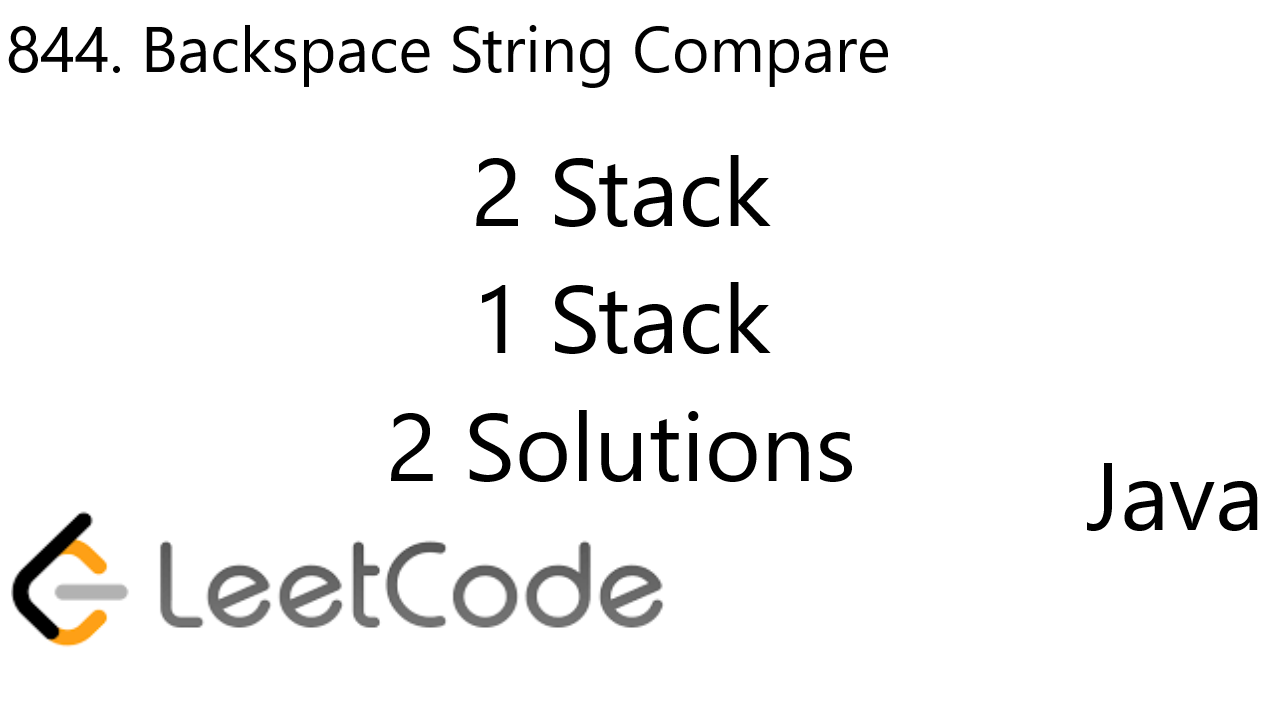
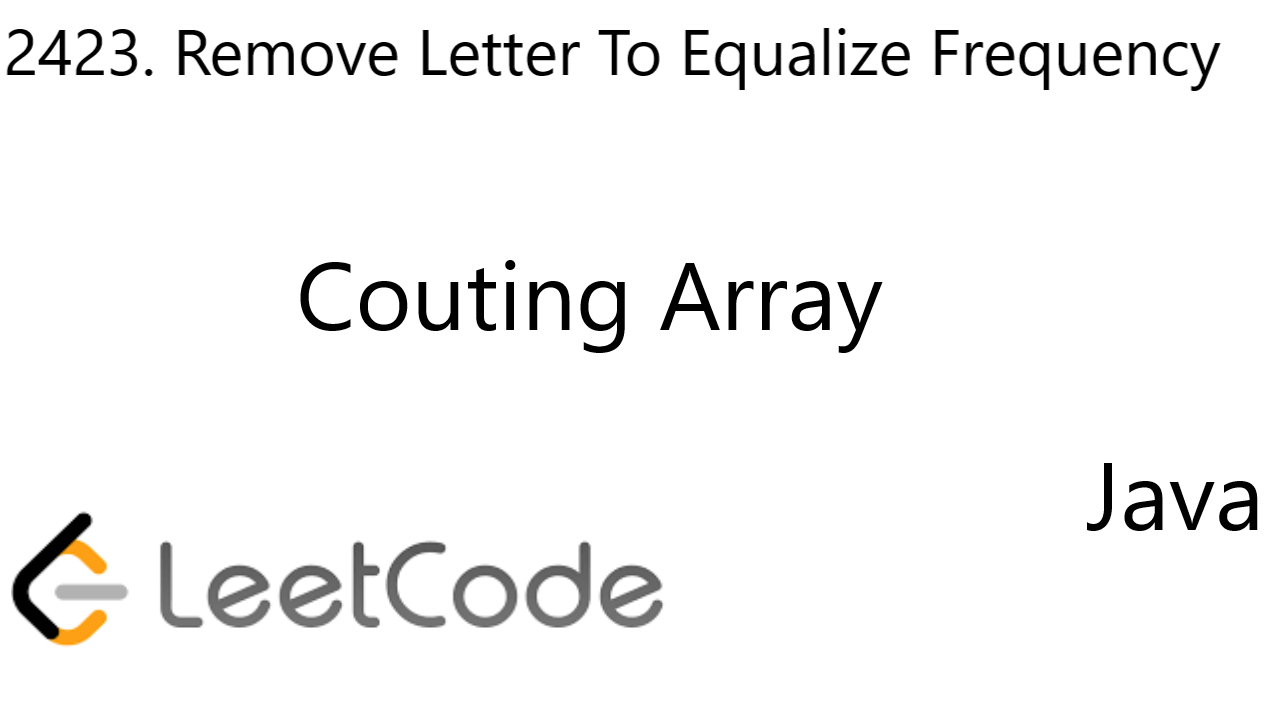
most likely sql

diff --git a/LeetCode/02423. Remove Letter To Equalize Frequency/README.MD b/LeetCode/02423. Remove Letter To Equalize Frequency/README.MD
@@ -1,0 +1,37 @@
+# Counting Array
+* Time Complexity: O(W)
+* Space Complexity: O(26)
+	* W as length of word
+```
+class Solution {
+    public boolean equalFrequency(String word) {
+        int[] cnt = new int[26];
+        for(char c: word.toCharArray()){
+            cnt[c-'a']++;
+        }
+        for(int i = 0; i < 26; i++){
+            cnt[i]--;
+            if(equalFreq(cnt)){
+                return true;
+            }
+            cnt[i]++;
+        }
+        return false;
+    }
+    
+    public boolean equalFreq(int[] arr){
+        int cnt = 0;
+        for(int a: arr){
+            if(a == 0 || cnt == a){
+                continue;
+            }else if(cnt == 0){
+                cnt = a;
+            }else{
+                return false;
+            }
+        }
+        return true;
+    }
+}
+
+```

diff --git a/LeetCode/02437. Number of Valid Clock Times/README.MD b/LeetCode/02437. Number of Valid Clock Times/README.MD
@@ -1,0 +1,36 @@
+# Math
+* Time Complexity: O(N)
+* Space Complexity: O(N)
+	* N as length of time
+```
+class Solution {
+    public int countTime(String time) {
+        int res = 1;
+        char[] t = time.toCharArray();
+        if(t[4] == '?'){
+            res *= 10;
+        }
+        if(t[3] == '?'){
+            res *= 6;
+        }
+        if(t[0] == '?' && t[1] == '?'){
+            res *= 24;
+        }else{
+            if(t[1] == '?'){
+                if(t[0] == '2'){
+                    res *= 4;
+                }else{
+                    res *= 10;
+                }
+            }else if(t[0] == '?'){
+                if(t[1] >= '4'){
+                    res *= 2;
+                }else{
+                    res *= 3;
+                }
+            }
+        }
+        return res;
+    }
+}
+```

diff --git a/LeetCode/02432. The Employee That Worked on the Longest Task/README.MD b/LeetCode/02432. The Employee That Worked on the Longest Task/README.MD
@@ -1,0 +1,20 @@
+# Math
+* Time Complexity: O(N)
+* Space Complexity: O(1)
+	* N as length of logs
+```
+class Solution {
+    public int hardestWorker(int n, int[][] logs) {
+        int id = logs[0][0],
+            res = logs[0][1];
+        for(int i = 1; i < logs.length; i++){
+            int curlen = logs[i][1] -  logs[i-1][1]; 
+            if(curlen > res || curlen == res && id > logs[i][0]){
+                res = curlen;
+                id = logs[i][0];
+            }
+        }
+        return id;
+    }
+}
+```

diff --git a/LeetCode/02441. Largest Positive Integer That Exists With Its Negative/README.MD b/LeetCode/02441. Largest Positive Integer That Exists With Its Negative/README.MD
@@ -1,0 +1,21 @@
+# HashSet
+* Time Complexity: O(N)
+* Space Complexity: O(N)
+	* N as length of nums
+```
+class Solution {
+    public int findMaxK(int[] nums) {
+        Set<Integer> set = new HashSet();
+        for(int num: nums){
+            set.add(num);
+        }
+        int res = -1;
+        for(int num: nums){
+            if(num > 0 && set.contains(-num)){
+                res = Math.max(num, res);
+            }
+        }
+        return res;
+    }
+}
+```

diff --git a/LeetCode/01484. Group Sold Products By The Date/README.MD b/LeetCode/01484. Group Sold Products By The Date/README.MD
@@ -1,4 +1,4 @@
-# MSSQL
+# MsSQL
 ```
 select a.sell_date,
         count(a.product) as num_sold,
@@ -7,4 +7,14 @@ from (select distinct sell_date,
             product from Activities) as a
 group by a.sell_date
 order by a.sell_date asc
+```
+
+# MySQL
+```
+select sell_date, 
+       count(distinct product) as num_sold,
+       group_concat(distinct product order by product asc separator ',') as products
+from activities
+group by sell_date 
+order by sell_date asc
 ```

diff --git a/LeetCode/01795. Rearrange Products Table/README.MD b/LeetCode/01795. Rearrange Products Table/README.MD
@@ -1,0 +1,17 @@
+# MSSQL
+```
+select product_id, 
+        'store1' as store, 
+        store1 as price 
+        from Products where store1 is not null
+union all
+select product_id,
+        'store2' as store, 
+        store2 as price 
+        from Products where store2 is not null
+union all
+select product_id,
+        'store3' as store, 
+        store3 as price 
+        from Products where store3 is not null
+```

diff --git a/LeetCode/02427. Number of Common Factors/README.MD b/LeetCode/02427. Number of Common Factors/README.MD
@@ -1,0 +1,20 @@
+# Loop
+* Time Complexity: O(A)
+* Space Complexity: O(1)
+	* A as a
+```
+class Solution {
+    int res = 1;
+    public int commonFactors(int a, int b) {
+        if(a > b){
+            return commonFactors(b, a);
+        }
+        for(int i = 2; i <= a; i++){
+            if(a % i == 0 && b % i == 0){
+                res++;
+            }
+        }
+        return res;
+    }
+}
+```

diff --git a/LeetCode/01667. Fix Names in a Table/README.MD b/LeetCode/01667. Fix Names in a Table/README.MD
@@ -1,7 +1,13 @@
-# SQL
+# MsSQL
 ```
 select user_id,
     concat(upper(left(name, 1)), lower(substring(name, 2, len(name)))) as 'name'
+from Users
+order by user_id
+```
+# MySQL
+```
+select user_id, concat(upper(left(name, 1)), lower(substring(name, 2, length(name)))) as name
 from Users
 order by user_id
 ```

diff --git a/LeetCode/01965. Employees With Missing Information/README.MD b/LeetCode/01965. Employees With Missing Information/README.MD
@@ -1,0 +1,12 @@
+# MSSQL
+```
+/* Write your T-SQL query statement below */
+select employee_id
+from Employees
+where employee_id not in (select employee_id from Salaries)
+union
+select employee_id
+from Salaries
+where employee_id not in (select employee_id from Employees)
+order by employee_id
+```

diff --git a/LeetCode/00608. Tree Node/README.MD b/LeetCode/00608. Tree Node/README.MD
@@ -1,0 +1,10 @@
+# MySQL
+```
+select id, (case
+            when p_id is null then 'Root'
+            when id in (select p_id from tree) then 'Inner'
+            else 'Leaf'
+           end) as type
+from tree
+order by id
+```

diff --git a/LeetCode/01581. Customer Who Visited but Did Not Make Any Transactions/README.MD b/LeetCode/01581. Customer Who Visited but Did Not Make Any Transactions/README.MD
@@ -1,0 +1,8 @@
+# MySQL
+```
+select customer_id, count(v.visit_id) as count_no_trans
+from visits v
+left join Transactions t on v.visit_id = t.visit_id
+where t.visit_id is null
+group by customer_id
+```

diff --git a/LeetCode/01527. Patients With a Condition/README.MD b/LeetCode/01527. Patients With a Condition/README.MD
@@ -1,0 +1,8 @@
+# MSSQL
+```
+/* Write your T-SQL query statement below */
+select *
+from Patients
+where conditions like 'DIAB1%' or
+        conditions like '% DIAB1%'
+```
